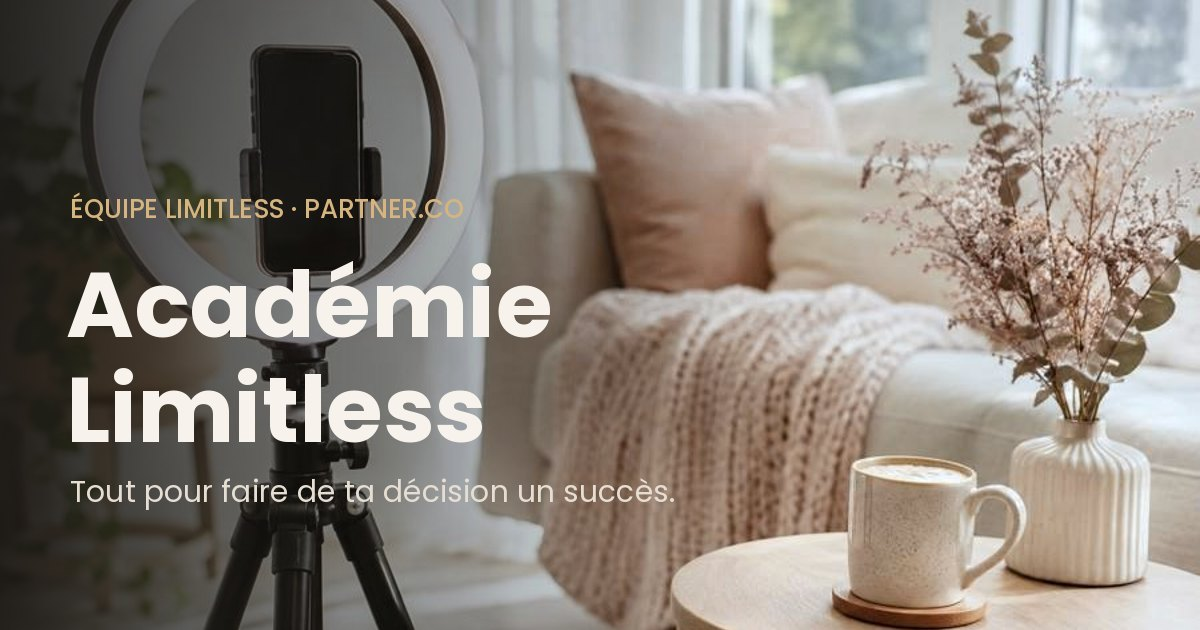
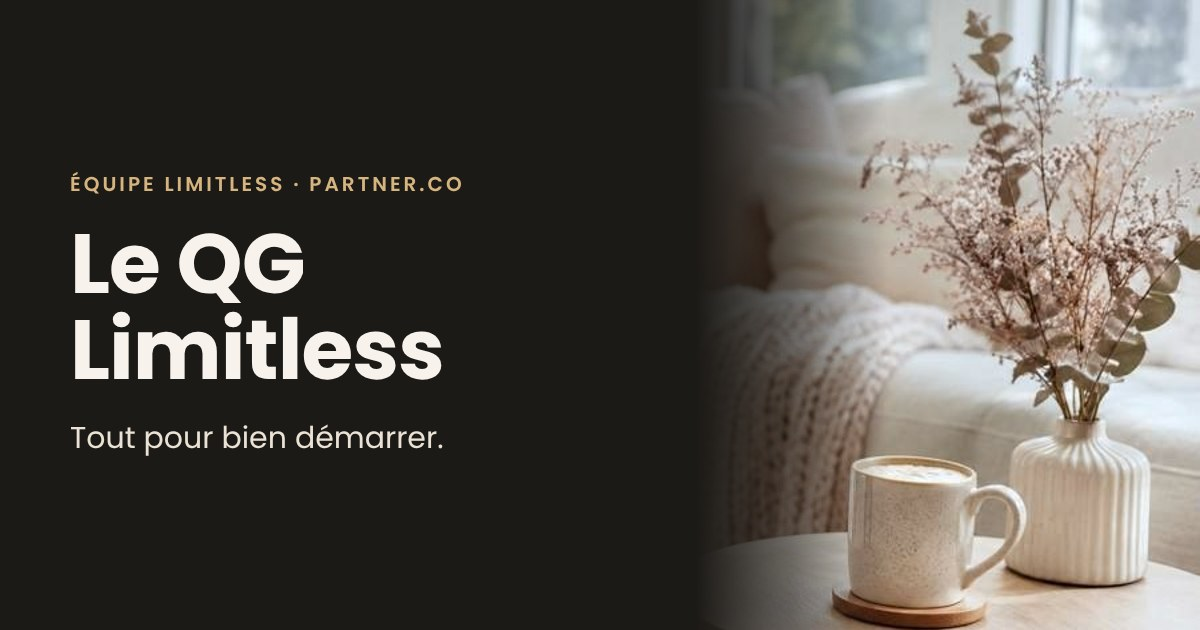
Renomme l'Académie Limitless en Le QG Limitless · Tout pour bien démarrer
Titre, aperçu pour les réseaux sociaux (nouvelle image), accueil et
mentions de l'Académie dans les textes. Les noms techniques (Worker,
KV ACADEMIE, source du webhook) ne changent pas.

Claude-Session: https://claude.ai/code/session_012etVvvghjfdu9QtGsWLAG5

diff --git a/public/index.html b/public/index.html
@@ -5,19 +5,19 @@
 <meta name="viewport" content="width=device-width,initial-scale=1,viewport-fit=cover">
 <meta name="robots" content="noindex">
 <meta name="theme-color" content="#F7F3EC">
-<meta name="description" content="L'app de formation de l'équipe Limitless chez Partner.Co : réseaux sociaux, business, produits et mindset.">
+<meta name="description" content="Le QG Limitless, l'app de l'équipe Limitless chez Partner.Co : tout pour bien démarrer, réseaux sociaux, business, produits et mindset.">
 <meta property="og:type" content="website">
-<meta property="og:title" content="Académie Limitless">
-<meta property="og:description" content="Tout ce dont tu as besoin pour faire de ta décision un succès : réseaux sociaux, business, produits et mindset.">
+<meta property="og:title" content="Le QG Limitless · Tout pour bien démarrer">
+<meta property="og:description" content="Tout pour bien démarrer : réseaux sociaux, business, produits et mindset.">
 <meta property="og:url" content="https://academie.dufourmedia.ca/">
-<meta property="og:image" content="https://academie.dufourmedia.ca/img/apercu.jpg">
+<meta property="og:image" content="https://academie.dufourmedia.ca/img/apercu.jpg?v=qg">
 <meta property="og:image:width" content="1200">
 <meta property="og:image:height" content="630">
 <meta property="og:locale" content="fr_CA">
 <meta name="twitter:card" content="summary_large_image">
 <link rel="icon" href="/favicon.svg" type="image/svg+xml">
 <link rel="apple-touch-icon" href="/apple-touch-icon.png">
-<title>Académie Limitless</title>
+<title>Le QG Limitless</title>
 <link rel="preconnect" href="https://fonts.googleapis.com">
 <link rel="stylesheet" href="https://fonts.googleapis.com/css2?family=Bricolage+Grotesque:opsz,wght@12..96,500;12..96,700;12..96,800&family=Figtree:wght@400;500;600;700&family=Poppins:wght@600&family=DM+Mono:wght@400;500&display=swap">
 <style>
@@ -960,8 +960,8 @@ accueil(m){
      <p class="cat-d">${esc(c.desc)}</p><div class="bar"><i style="width:${pc}%"></i></div>
      </div></a>`;
   }).join("");
-  return `<div class="home-hero"><div class="kicker" style="color:inherit;opacity:.8">Équipe Limitless · Partner.Co</div>
-  <h1>Bienvenue dans l'équipe Limitless</h1><img class="home-team-photo" src="/img/equipe-limitless.jpg" alt="L’équipe Limitless réunie sur la plage">
+  return `<div class="home-hero"><div class="kicker" style="color:inherit;opacity:.8">Le QG Limitless · Tout pour bien démarrer</div>
+  <h1>Bienvenue au QG Limitless</h1><img class="home-team-photo" src="/img/equipe-limitless.jpg" alt="L’équipe Limitless réunie sur la plage">
   <p>Ici, tu trouveras tout ce dont tu as besoin pour faire de ta décision un succès. Choisis ce que tu veux travailler aujourd'hui : pas besoin de suivre l'ordre.</p>
   ${p>0?`<div class="pill-row"><a class="btn" style="background:var(--sun);color:var(--sun-ink)" href="#${state.last&&MODULES.some(x=>x.id===state.last)?state.last:firstOpen()}">Reprendre où j'étais rendue →</a></div>`:`<div class="pill-row"><a class="btn" style="background:var(--sun);color:var(--sun-ink)" href="#cahier">Commencer ma première semaine →</a></div>`}</div>
   
@@ -1135,12 +1135,12 @@ catalogue(m){
   return `<div class="cat-frame"><iframe src="https://catalogue-partnerco.elisabethdufour777.workers.dev/" title="Catalogue des produits Partner.Co Canada" referrerpolicy="no-referrer"></iframe></div>`;
 },
 formationproduits(m){
-  return head(m,"Des vidéos produits à regarder dans l’Académie. Coche chaque ressource au fur et à mesure.")+
+  return head(m,"Des vidéos produits à regarder dans le QG. Coche chaque ressource au fur et à mesure.")+
   `<section class="training-grid" aria-label="Formations produits">
     <article class="card">
       <span class="sticker st-sun">Aliments fonctionnels · Noni</span>
       <h2 style="font-size:24px">Noni</h2>
-      <p>Regarde la formation et écoute-la ici, sans quitter l’Académie.</p>
+      <p>Regarde la formation et écoute-la ici, sans quitter le QG.</p>
       <div class="video-frame"><iframe src="https://www.youtube-nocookie.com/embed/tJsRoVaQTAk" title="Formation sur le Noni" loading="lazy" allow="accelerometer; autoplay; clipboard-write; encrypted-media; gyroscope; picture-in-picture; web-share" referrerpolicy="strict-origin-when-cross-origin" allowfullscreen></iframe></div>
       ${lessonItem(m.lessons[0])}
       <p><a href="https://noniresearch.org/" target="_blank" rel="noopener">Consulter les études sur le Noni ↗</a></p>
@@ -1157,7 +1157,7 @@ formationproduits(m){
     <article class="card">
       <span class="sticker st-sun">Technologie de bien-être</span>
       <h2 style="font-size:24px">Bracelet CM2</h2>
-      <p>Regarde la formation et écoute-la ici, sans quitter l’Académie.</p>
+      <p>Regarde la formation et écoute-la ici, sans quitter le QG.</p>
       <div class="video-frame"><iframe src="https://www.youtube-nocookie.com/embed/GlY3xA3N_Ag" title="Formation sur le bracelet CM2" loading="lazy" allow="accelerometer; autoplay; clipboard-write; encrypted-media; gyroscope; picture-in-picture; web-share" referrerpolicy="strict-origin-when-cross-origin" allowfullscreen></iframe></div>
       ${lessonItem(m.lessons[5])}
       <p class="ref">Si le lecteur ne fonctionne pas, <a href="https://youtu.be/GlY3xA3N_Ag" target="_blank" rel="noopener">ouvrir la vidéo sur YouTube ↗</a>.</p>
@@ -1228,7 +1228,7 @@ formationproduits(m){
       <p>Découvre aussi les transformations partagées dans le board.</p>
       <p class="pill-row"><a class="btn" href="https://app.boards.com/boards/Z0Nhsz.gQlY0qTQ" target="_blank" rel="noopener">Voir les transformations ↗</a></p>
       <p>Le programme d’accompagnement est gratuit avec l’achat des gouttes. Remplis tes informations pour recevoir un courriel chaque jour. Je suis aussi ici pour t’aider!</p>
-      <p>Copie ce lien de l’Académie pour le partager à tes clientes, ou utilise-le pour t’inscrire toi-même.</p>
+      <p>Copie ce lien du QG pour le partager à tes clientes, ou utilise-le pour t’inscrire toi-même.</p>
       <p class="pill-row"><a class="btn" href="https://limitlesssupport.com/slimming" target="_blank" rel="noopener">S’inscrire au programme ↗</a></p>
       <p class="ref">Une fois inscrite, ouvre la plateforme du programme :</p>
       <p><a href="https://members.limitlesssupport.com/" target="_blank" rel="noopener">Accéder à la plateforme ↗</a></p>
@@ -1291,7 +1291,7 @@ cap(m){
    <div class="card"><span class="meta">L’invitation</span><p>Tu termines par une question ouverte : « Si tu veux, je peux t’envoyer les détails. Qu’est-ce qui t’intéresse le plus? »</p></div>
    <div class="card"><span class="meta">La ressource</span><p>Tu partages une fiche, une vidéo ou une page adaptée à sa demande, puis tu vérifies si elle a trouvé sa réponse.</p></div>
   </div></section>
-  <section class="blk"><h2>Ta vidéo explicative</h2><article class="card"><p>Regarde la vidéo et écoute-la ici, sans quitter l’Académie.</p><div class="video-frame"><iframe src="https://www.youtube-nocookie.com/embed/E8W1Quh5PJ4" title="La méthode CAP" loading="lazy" allow="accelerometer; autoplay; clipboard-write; encrypted-media; gyroscope; picture-in-picture; web-share" referrerpolicy="strict-origin-when-cross-origin" allowfullscreen></iframe></div><p class="ref">Si le lecteur ne fonctionne pas, <a href="https://youtu.be/E8W1Quh5PJ4" target="_blank" rel="noopener">ouvrir la vidéo sur YouTube ↗</a>.</p></article></section>`+lessons(m)+nav(m);
+  <section class="blk"><h2>Ta vidéo explicative</h2><article class="card"><p>Regarde la vidéo et écoute-la ici, sans quitter le QG.</p><div class="video-frame"><iframe src="https://www.youtube-nocookie.com/embed/E8W1Quh5PJ4" title="La méthode CAP" loading="lazy" allow="accelerometer; autoplay; clipboard-write; encrypted-media; gyroscope; picture-in-picture; web-share" referrerpolicy="strict-origin-when-cross-origin" allowfullscreen></iframe></div><p class="ref">Si le lecteur ne fonctionne pas, <a href="https://youtu.be/E8W1Quh5PJ4" target="_blank" rel="noopener">ouvrir la vidéo sur YouTube ↗</a>.</p></article></section>`+lessons(m)+nav(m);
 },
 conformite(m){
   return head(m,"Ce module protège ton équipe et ta réputation. On le prend au sérieux.")+
@@ -1363,7 +1363,7 @@ backoffice(m){
    <tr><td><b>Service client</b></td><td><a href="https://partner.co/fr-ca/contact-us" target="_blank" rel="noopener">partner.co/fr-ca/contact-us ↗</a></td></tr>
    <tr><td><b>Politique de retour</b></td><td><a href="https://partner.co/fr-ca/return-policy" target="_blank" rel="noopener">partner.co/fr-ca/return-policy ↗</a></td></tr>
    <tr><td><b>Événements</b> (dont la PXP, en septembre 2026 à Orlando)</td><td><a href="https://partner.co/fr-ca/events" target="_blank" rel="noopener">partner.co/fr-ca/events ↗</a></td></tr>
-   <tr><td><b>Catalogue Canada de l'équipe</b></td><td><a href="#catalogue">Ouvrir le catalogue dans l'Académie</a></td></tr>
+   <tr><td><b>Catalogue Canada de l'équipe</b></td><td><a href="#catalogue">Ouvrir le catalogue dans le QG</a></td></tr>
   </tbody></table></div></section>
   <section class="blk"><h2>Questions fréquentes</h2><div class="faq">
    <details><summary>Une cliente veut devenir partenaire : comment je fais?</summary><div class="vs">
@@ -1628,7 +1628,7 @@ const MDESC={
  recrutement:"Parler de ton projet sans post « opportunité », et repérer les curieuses.",
  defi:"14 jours d'actions simples pour mettre tout ça en pratique.",
  catalogue:"Tous les produits Partner.Co Canada, avec leurs ingrédients et leurs bienfaits.",
- formationproduits:"Les vidéos de formation sur les produits, à regarder dans l’Académie.",
+ formationproduits:"Les vidéos de formation sur les produits, à regarder dans le QG.",
  produits:"Le catalogue par besoin, et les deux boutiques (Canada et États-Unis).",
  youth:"Le nouveau système Co.Lab : les 3 étapes, les comparatifs et le pré-lancement.",
  storiesprod:"Des séquences de 6 stories à télécharger, prêtes à publier.",
@@ -1916,7 +1916,7 @@ async function makeSyncLink(){const o={};SYNC_KEYS.forEach(k=>{if(state[k]!==und
 async function checkSyncHash(){const h=location.hash;if(!h.startsWith("#sync="))return false;
   try{const data=JSON.parse(await unb64gz(h.slice(6)));
     const box=document.getElementById("main");
-    box.innerHTML=`<div class="mod-h"><h1>Transférer ta progression</h1><p class="lead">Ce lien contient ta progression de l'Académie. Veux-tu la récupérer sur cet appareil? Ce qui est déjà ici sera remplacé.</p></div><div class="pill-row"><button class="btn" id="sync-yes" type="button">Oui, récupérer ma progression</button><a class="btn ghost" href="#accueil">Non, garder ce qui est ici</a></div>`;
+    box.innerHTML=`<div class="mod-h"><h1>Transférer ta progression</h1><p class="lead">Ce lien contient ta progression du QG. Veux-tu la récupérer sur cet appareil? Ce qui est déjà ici sera remplacé.</p></div><div class="pill-row"><button class="btn" id="sync-yes" type="button">Oui, récupérer ma progression</button><a class="btn ghost" href="#accueil">Non, garder ce qui est ici</a></div>`;
     window.__syncData=data;return true;}
   catch(e){history.replaceState(null,"","#accueil");return false;}}
 document.addEventListener("click",async e=>{
@@ -1979,7 +1979,7 @@ document.addEventListener("submit",async e=>{
   if(!/^[^\s@]+@[^\s@]+\.[^\s@]{2,}$/.test(email)){ACCT.msg="Vérifie ton adresse courriel.";acctRefresh();return;}
   ACCT.busy=true;ACCT.msg="";acctRefresh();
   try{const r=await fetch("/api/login",{method:"POST",credentials:"same-origin",headers:{"content-type":"application/json"},body:JSON.stringify({email,prenom})});
-    ACCT.msg=r.ok?`C'est envoyé! Regarde tes courriels (${email}) et clique sur le bouton « Ouvrir mon Académie ». Le lien est valide 15 minutes. Pense à vérifier tes indésirables.`:(r.status===429?"Tu as demandé plusieurs liens de suite. Attends quelques minutes avant de réessayer.":"L'envoi n'a pas fonctionné. Réessaie dans un instant.");}
+    ACCT.msg=r.ok?`C'est envoyé! Regarde tes courriels (${email}) et clique sur le bouton « Ouvrir mon QG ». Le lien est valide 15 minutes. Pense à vérifier tes indésirables.`:(r.status===429?"Tu as demandé plusieurs liens de suite. Attends quelques minutes avant de réessayer.":"L'envoi n'a pas fonctionné. Réessaie dans un instant.");}
   catch(err){ACCT.msg="L'envoi n'a pas fonctionné. Vérifie ta connexion Internet.";}
   ACCT.busy=false;acctRefresh();
 });

diff --git a/src/worker.js b/src/worker.js
@@ -1,4 +1,4 @@
-// Académie Limitless : connexion par lien magique (envoyé par GHL) et sauvegarde de la progression.
+// Le QG Limitless : connexion par lien magique (envoyé par GHL) et sauvegarde de la progression.
 // Worker Cloudflare : sert les fichiers de /public et répond aux routes /api/*.
 // Liaisons : KV « ACADEMIE » (wrangler.jsonc) et secret GHL_WEBHOOK_URL (tableau de bord).
 

diff --git a/README.md b/README.md
@@ -1,4 +1,4 @@
-# Académie Limitless
+# Le QG Limitless
 
 L'app de formation de l'équipe Limitless (Partner.Co). Site statique, hébergé sur Cloudflare Pages.
 
